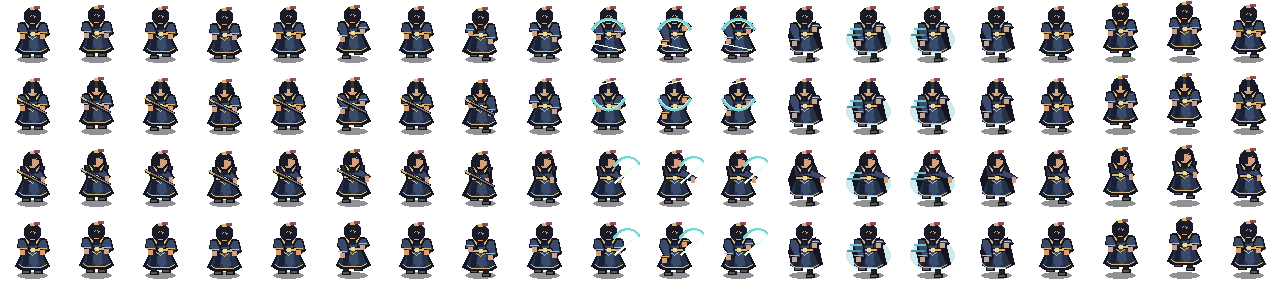
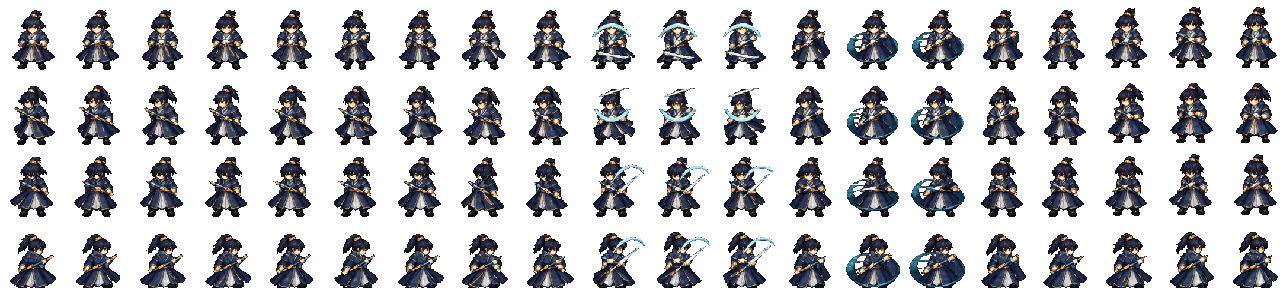
Refine hero sprite and give normal attacks fuller energy arcs

diff --git a/README.md b/README.md
@@ -1,14 +1,14 @@
 # Murim: Sendero del Qi
 
-A small Android action RPG prototype built in Godot 4.4. The current build uses a top-down 2D pixel-art style with softly shaded character sprites and ground shadows for a semi-3D impression. Legacy 3D prototype files are excluded from the Android package.
+A small Android action RPG prototype built in Godot 4.4. The current build uses top-down 2D pixel art with shaded sprites and soft ground shadows for a semi-3D impression. Legacy 3D prototype files are excluded from the Android package.
 
 ## Controls
 - Drag the left virtual stick to walk; push it toward the edge to run.
-- Tap **Ataque** repeatedly to chain three forms: a quick cut, a rising cut, then an all-around Qi spin. Each leaves a layered, softly fading light trail; the combo resets if you pause for about one second.
+- Tap **Ataque** repeatedly to chain three forms: a quick cut, a rising cut, then an all-around Qi spin. The attacks use filled, layered energy crescents with a bright blade core and drifting sparks; the combo resets if you pause for about one second.
 - Tap **Especial** (or press E on desktop) for a full-body radiant Qi wave with warm mist, curved energy ribbons and seven soft petal flares. It keeps a radius three times the character's height, costs 30 Qi and has a five-second cooldown.
 - Tap **Esquiva** to dodge along the stick direction, or backward if the stick is neutral.
 - Tap **Salto** for a short hop.
 - Drag the right side to pan the camera; pinch to zoom.
 - On desktop, use WASD or arrow keys, Space to dodge, J to jump, and the left mouse button to attack.
 
-Pixel character and dojo textures are generated by `tools_make_pixel_art.py` and use nearest-neighbor filtering; subtle sprite shading, soft contact shadows and layered glow strokes add a semi-3D feel while gameplay remains 2D.
+The hero sprite sheet contains 20 animations in four facing directions, drawn in a richer shaded pixel-art style while gameplay remains 2D.
